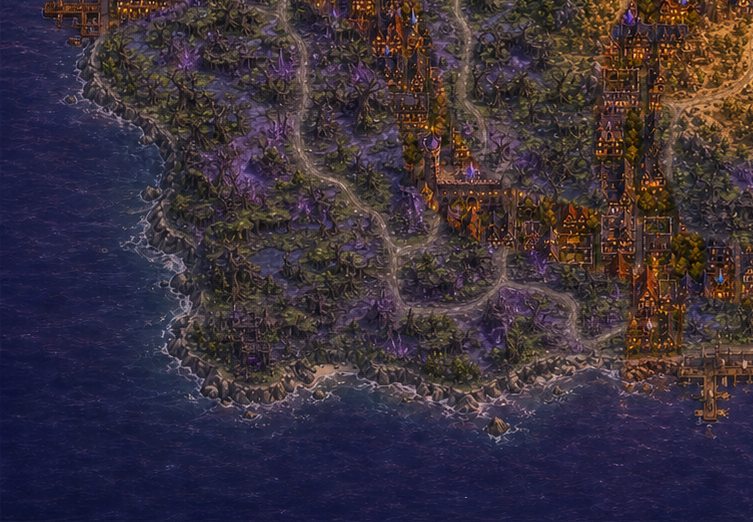
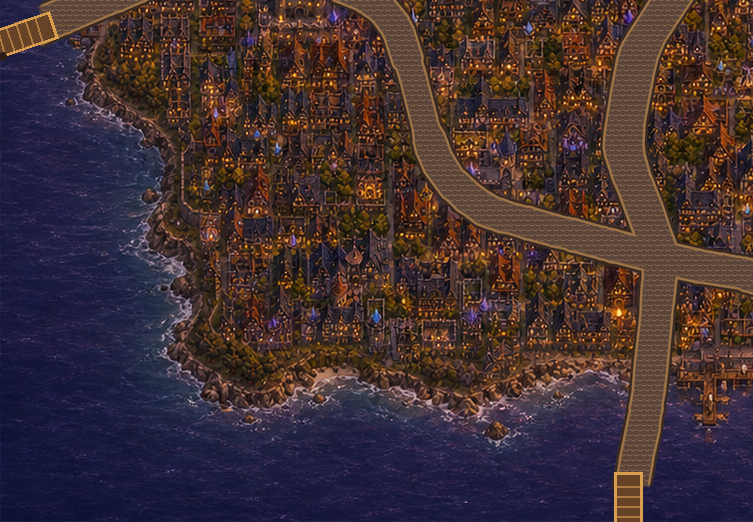
fix: restore roads in past map tiles

diff --git a/tests/v2-past-tiles.test.js b/tests/v2-past-tiles.test.js
@@ -1,0 +1,37 @@
+const test = require('node:test');
+const assert = require('node:assert/strict');
+const crypto = require('node:crypto');
+const fs = require('node:fs');
+const path = require('node:path');
+
+function sha256(file) {
+  return crypto.createHash('sha256').update(fs.readFileSync(file)).digest('hex');
+}
+
+function pngDimensions(file) {
+  const png = fs.readFileSync(file);
+  assert.equal(png.subarray(1, 4).toString('ascii'), 'PNG');
+  return [png.readUInt32BE(16), png.readUInt32BE(20)];
+}
+
+test('past runtime tiles were generated from the final road-composited map', () => {
+  const manifest = JSON.parse(fs.readFileSync('assets/v2/past-evening-runtime-tiles/manifest.json', 'utf8'));
+
+  assert.equal(manifest.source, 'assets/v2/roppongi-roads-past-evening.png');
+  assert.equal(sha256(manifest.source), manifest.sourceSha256);
+  assert.deepEqual(Object.keys(manifest.tiles).sort(), ['0-0.png', '0-1.png', '1-0.png', '1-1.png']);
+  for (const [filename, expectedHash] of Object.entries(manifest.tiles)) {
+    const tile = path.join('assets/v2/past-evening-runtime-tiles', filename);
+    assert.equal(sha256(tile), expectedHash, filename);
+    assert.deepEqual(pngDimensions(tile), [3010, 2090], `${filename} must be an equal quadrant`);
+  }
+
+  const builder = fs.readFileSync('tools/build-v2-geographic-map.py', 'utf8');
+  assert.match(builder, /build_runtime_tiles\(PAST_MAP_PATH/);
+});
+
+test('past tile and runtime scripts use the current cache versions', () => {
+  const html = fs.readFileSync('v2.html', 'utf8');
+  assert.match(html, /v2-editions\.js\?edition=2/);
+  assert.match(html, /v2\.js\?edition=11/);
+});

diff --git a/v2.html b/v2.html
@@ -151,7 +151,7 @@
     <script src="assets/v2/road-collision-data.js?edition=1"></script>
     <script src="assets/v2/road-collision-past-data.js?edition=1"></script>
     <script src="assets/v2/map-layout-data.js?edition=1"></script>
-    <script src="v2-editions.js?edition=1"></script>
+    <script src="v2-editions.js?edition=2"></script>
     <script src="v2-assets.js?edition=1"></script>
     <script src="v2-landmarks.js?edition=1"></script>
     <script src="v2-battle.js?edition=3"></script>
@@ -167,6 +167,6 @@
     <script src="v2-supabase-bundle.js?edition=1"></script>
     <script src="v2-supabase-app.js?edition=1"></script>
     <script src="v2-input.js?edition=3"></script>
-    <script src="v2.js?edition=10"></script>
+    <script src="v2.js?edition=11"></script>
   </body>
 </html>

diff --git a/tests/v2-pages-build.test.js b/tests/v2-pages-build.test.js
@@ -19,6 +19,9 @@ test('Pages build contains the playable game without authoring source assets', (
       'assets/v2/map-layout-data.js',
       'assets/v2/day-runtime-tiles/0-0.png',
       'assets/v2/past-evening-runtime-tiles/0-0.png',
+      'assets/v2/past-evening-runtime-tiles/0-1.png',
+      'assets/v2/past-evening-runtime-tiles/1-0.png',
+      'assets/v2/past-evening-runtime-tiles/1-1.png',
       'assets/v2/landmarks/roppongi-hills.png',
       'assets/v2/past-scenes/castle-interior.png'
     ]) assert.equal(fs.existsSync(path.join(output, required)), true, required);

diff --git a/v2-editions.js b/v2-editions.js
@@ -9,6 +9,7 @@
       label: '現代編-昼間',
       subtitle: 'MODERN · DAY',
       tileDirectory: 'day-runtime-tiles',
+      tileVersion: 1,
       landmarkDirectory: 'landmarks',
       uiTheme: 'modern',
       showMapLabels: true,
@@ -19,6 +20,7 @@
       label: '過去編-夕方',
       subtitle: 'PAST · EVENING',
       tileDirectory: 'past-evening-runtime-tiles',
+      tileVersion: 2,
       landmarkDirectory: 'past-landmarks',
       landmarkSizeOverrides: Object.freeze({
         // The source sprite is tightly cropped after removing sheet-edge bleed.

diff --git a/scripts/build-pages-site.js b/scripts/build-pages-site.js
@@ -31,7 +31,7 @@ function copyFile(relativePath, outputDirectory) {
 function copyRuntimeDirectory(relativeDirectory, outputDirectory) {
   const sourceDirectory = path.join(ROOT, relativeDirectory);
   for (const entry of fs.readdirSync(sourceDirectory, { withFileTypes: true })) {
-    if (!entry.isFile() || FORBIDDEN_ASSET_NAME.test(entry.name)) continue;
+    if (!entry.isFile() || path.extname(entry.name).toLowerCase() !== '.png' || FORBIDDEN_ASSET_NAME.test(entry.name)) continue;
     copyFile(path.join(relativeDirectory, entry.name), outputDirectory);
   }
 }

diff --git a/v2.js b/v2.js
@@ -150,7 +150,7 @@
     const tiles = [];
     for (let row = 0; row < tileRows; row++) {
       for (let col = 0; col < tileCols; col++) {
-        const source = `assets/v2/${definition.tileDirectory}/${col}-${row}.png?edition=1`;
+        const source = `assets/v2/${definition.tileDirectory}/${col}-${row}.png?edition=${definition.tileVersion}`;
         const key = tileAssetKey(editionId, col, row);
         tiles.push({ row, col, key, image: assetLoader.register(key, source), source });
       }

diff --git a/tests/v2-editions.test.js b/tests/v2-editions.test.js
@@ -26,6 +26,11 @@ test('both editions use four-tile seamless map directories', () => {
   );
 });
 
+test('Past Evening increments its tile cache version when the road-composited tiles change', () => {
+  const past = editionDefinition('past');
+  assert.equal(past.tileVersion, 2);
+});
+
 test('Past Evening uses its own medieval landmark art with matching filenames', () => {
   assert.equal(editionLandmarkImage('past', 'tokyo-tower.png'),
     'assets/v2/past-landmarks/tokyo-tower.png');

diff --git a/tests/v2-mobile-ui.test.js b/tests/v2-mobile-ui.test.js
@@ -55,7 +55,7 @@ test('the map accepts pointer dragging as a touch joystick on iPhone-sized scree
   const css = fs.readFileSync('v2.css', 'utf8');
   const runtime = fs.readFileSync('v2.js', 'utf8');
   assert.match(html, /v2-input\.js\?edition=3/);
-  assert.match(html, /v2\.js\?edition=10/);
+  assert.match(html, /v2\.js\?edition=11/);
   assert.match(html, /v2\.css\?edition=6/);
   assert.match(html, /id="v2-drag-guide"/);
   assert.match(css, /#v2-shell[^}]*touch-action:\s*none/s);

diff --git a/tools/v2_runtime_tiles.py b/tools/v2_runtime_tiles.py
@@ -1,0 +1,67 @@
+from __future__ import annotations
+
+import hashlib
+import json
+from pathlib import Path
+
+from PIL import Image
+
+
+def file_sha256(path: Path) -> str:
+    digest = hashlib.sha256()
+    with path.open("rb") as handle:
+        for chunk in iter(lambda: handle.read(1024 * 1024), b""):
+            digest.update(chunk)
+    return digest.hexdigest()
+
+
+def build_runtime_tiles(source_path: Path, *, assets_path: Path) -> None:
+    source_path = source_path.resolve()
+    assets_path = assets_path.resolve()
+    source_directory = assets_path / "past-evening-source-tiles"
+    runtime_directory = assets_path / "past-evening-runtime-tiles"
+    source_directory.mkdir(exist_ok=True)
+    runtime_directory.mkdir(exist_ok=True)
+
+    with Image.open(source_path) as opened:
+        image = opened.convert("RGB")
+    width, height = image.size
+    x_edges = [0, (width + 1) // 2, width]
+    y_edges = [0, (height + 1) // 2, height]
+    runtime_image = image.resize((width * 4, height * 4), Image.Resampling.LANCZOS)
+    runtime_x_edges = [0, runtime_image.width // 2, runtime_image.width]
+    runtime_y_edges = [0, runtime_image.height // 2, runtime_image.height]
+    tile_hashes: dict[str, str] = {}
+
+    for row in range(2):
+        for col in range(2):
+            filename = f"{col}-{row}.png"
+            tile = image.crop((x_edges[col], y_edges[row], x_edges[col + 1], y_edges[row + 1]))
+            tile.save(source_directory / filename, optimize=True)
+            runtime = runtime_image.crop(
+                (
+                    runtime_x_edges[col],
+                    runtime_y_edges[row],
+                    runtime_x_edges[col + 1],
+                    runtime_y_edges[row + 1],
+                )
+            )
+            runtime_path = runtime_directory / filename
+            runtime.save(runtime_path, optimize=True)
+            tile_hashes[filename] = file_sha256(runtime_path)
+
+    manifest = {
+        "source": source_path.relative_to(assets_path.parent.parent).as_posix(),
+        "sourceSha256": file_sha256(source_path),
+        "tiles": tile_hashes,
+    }
+    (runtime_directory / "manifest.json").write_text(
+        json.dumps(manifest, indent=2) + "\n",
+        encoding="utf-8",
+    )
+
+
+if __name__ == "__main__":
+    root = Path(__file__).resolve().parent.parent
+    assets = root / "assets" / "v2"
+    build_runtime_tiles(assets / "roppongi-roads-past-evening.png", assets_path=assets)

diff --git a/tools/build-v2-geographic-map.py b/tools/build-v2-geographic-map.py
@@ -6,6 +6,8 @@ from pathlib import Path
 
 from PIL import Image, ImageChops, ImageDraw
 
+from v2_runtime_tiles import build_runtime_tiles
+
 
 ROOT = Path(__file__).resolve().parent.parent
 LAYOUT_PATH = ROOT / "assets" / "v2" / "map-layout.json"
@@ -394,6 +396,7 @@ def main() -> None:
     }
     map_image = render_map(layout, BACKGROUND_PATH, MAP_PATH, modern_palette)
     past_map_image = render_map(layout, PAST_BACKGROUND_PATH, PAST_MAP_PATH, past_palette)
+    build_runtime_tiles(PAST_MAP_PATH, assets_path=ROOT / "assets" / "v2")
     width, height = layout["width"], layout["height"]
 
     render_landmark_preview(map_image, layout, "landmarks", LANDMARK_PREVIEW_PATH)
